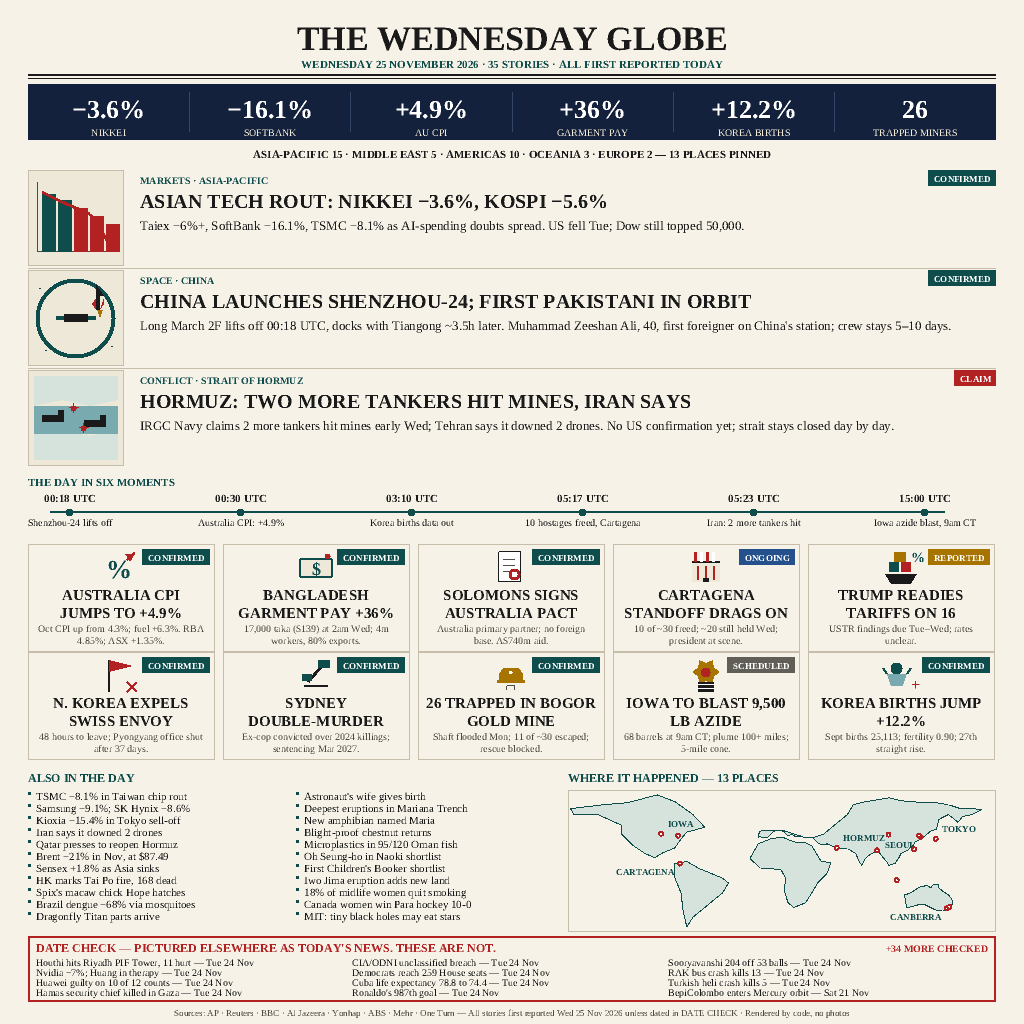
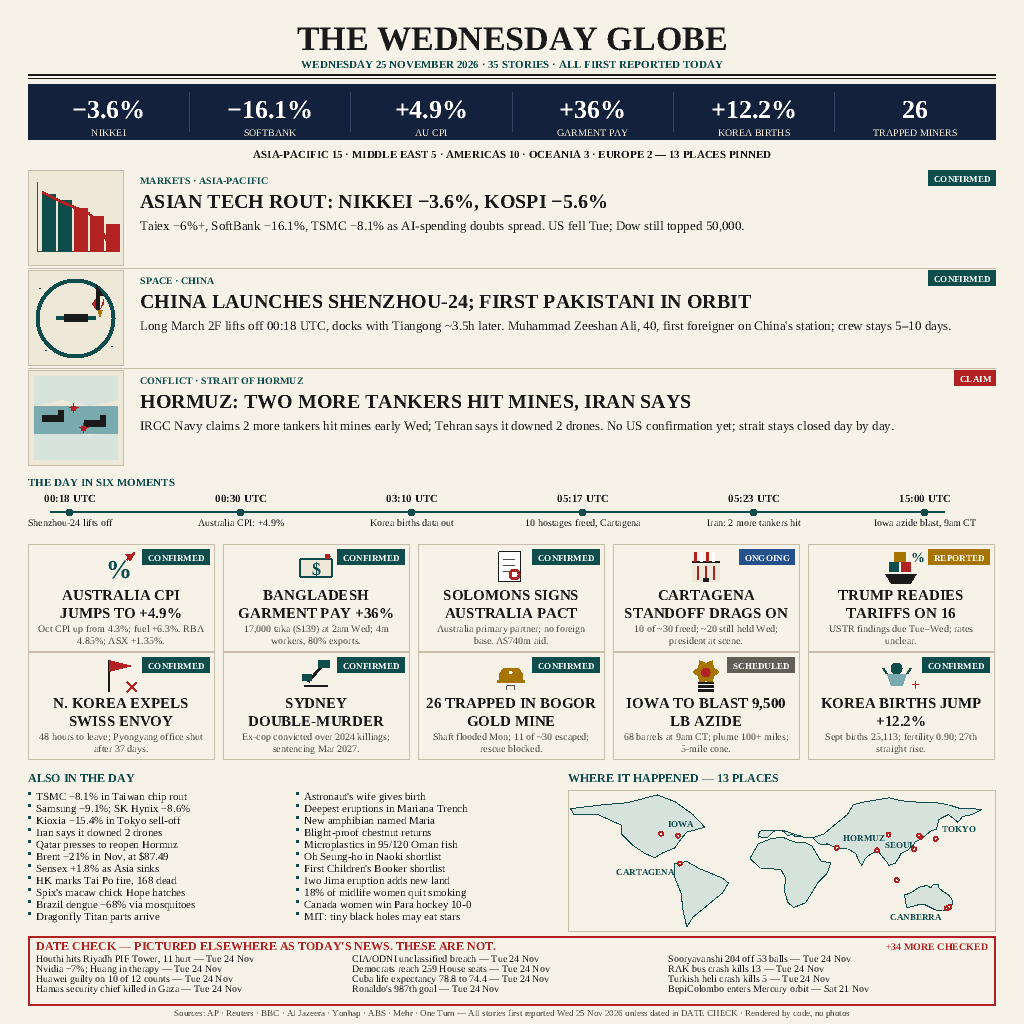
v1.1: DATE CHECK bottom clearance to 9px

Changed region(s): [[0.0312, 0.9062, 0.9688, 1.0], [0.875, 0.9062, 0.9688, 0.9375]]

diff --git a/main.py b/main.py
@@ -1098,14 +1098,14 @@ def draw_map(cv):
 
 
 def draw_datecheck(cv):
-    rect_outline(cv, M, 936, CW, 66, RED, 2)
-    cv.text(36, 952, "DATE CHECK \u2014 PICTURED ELSEWHERE AS TODAY'S NEWS. "
+    rect_outline(cv, M, 936, CW, 70, RED, 2)
+    cv.text(36, 950, "DATE CHECK \u2014 PICTURED ELSEWHERE AS TODAY'S NEWS. "
             "THESE ARE NOT.", 12, True, RED)
-    cv.text(988, 952, "+34 MORE CHECKED", 10, True, RED, align="right")
+    cv.text(988, 950, "+34 MORE CHECKED", 10, True, RED, align="right")
     for i, item in enumerate(DATECHECK):
         col, row = divmod(i, 4)
         x = 36 + col * 316
-        y = 966 + row * 10
+        y = 962 + row * 10
         cv.text(x, y, item, 10, False, INK)
 
 
